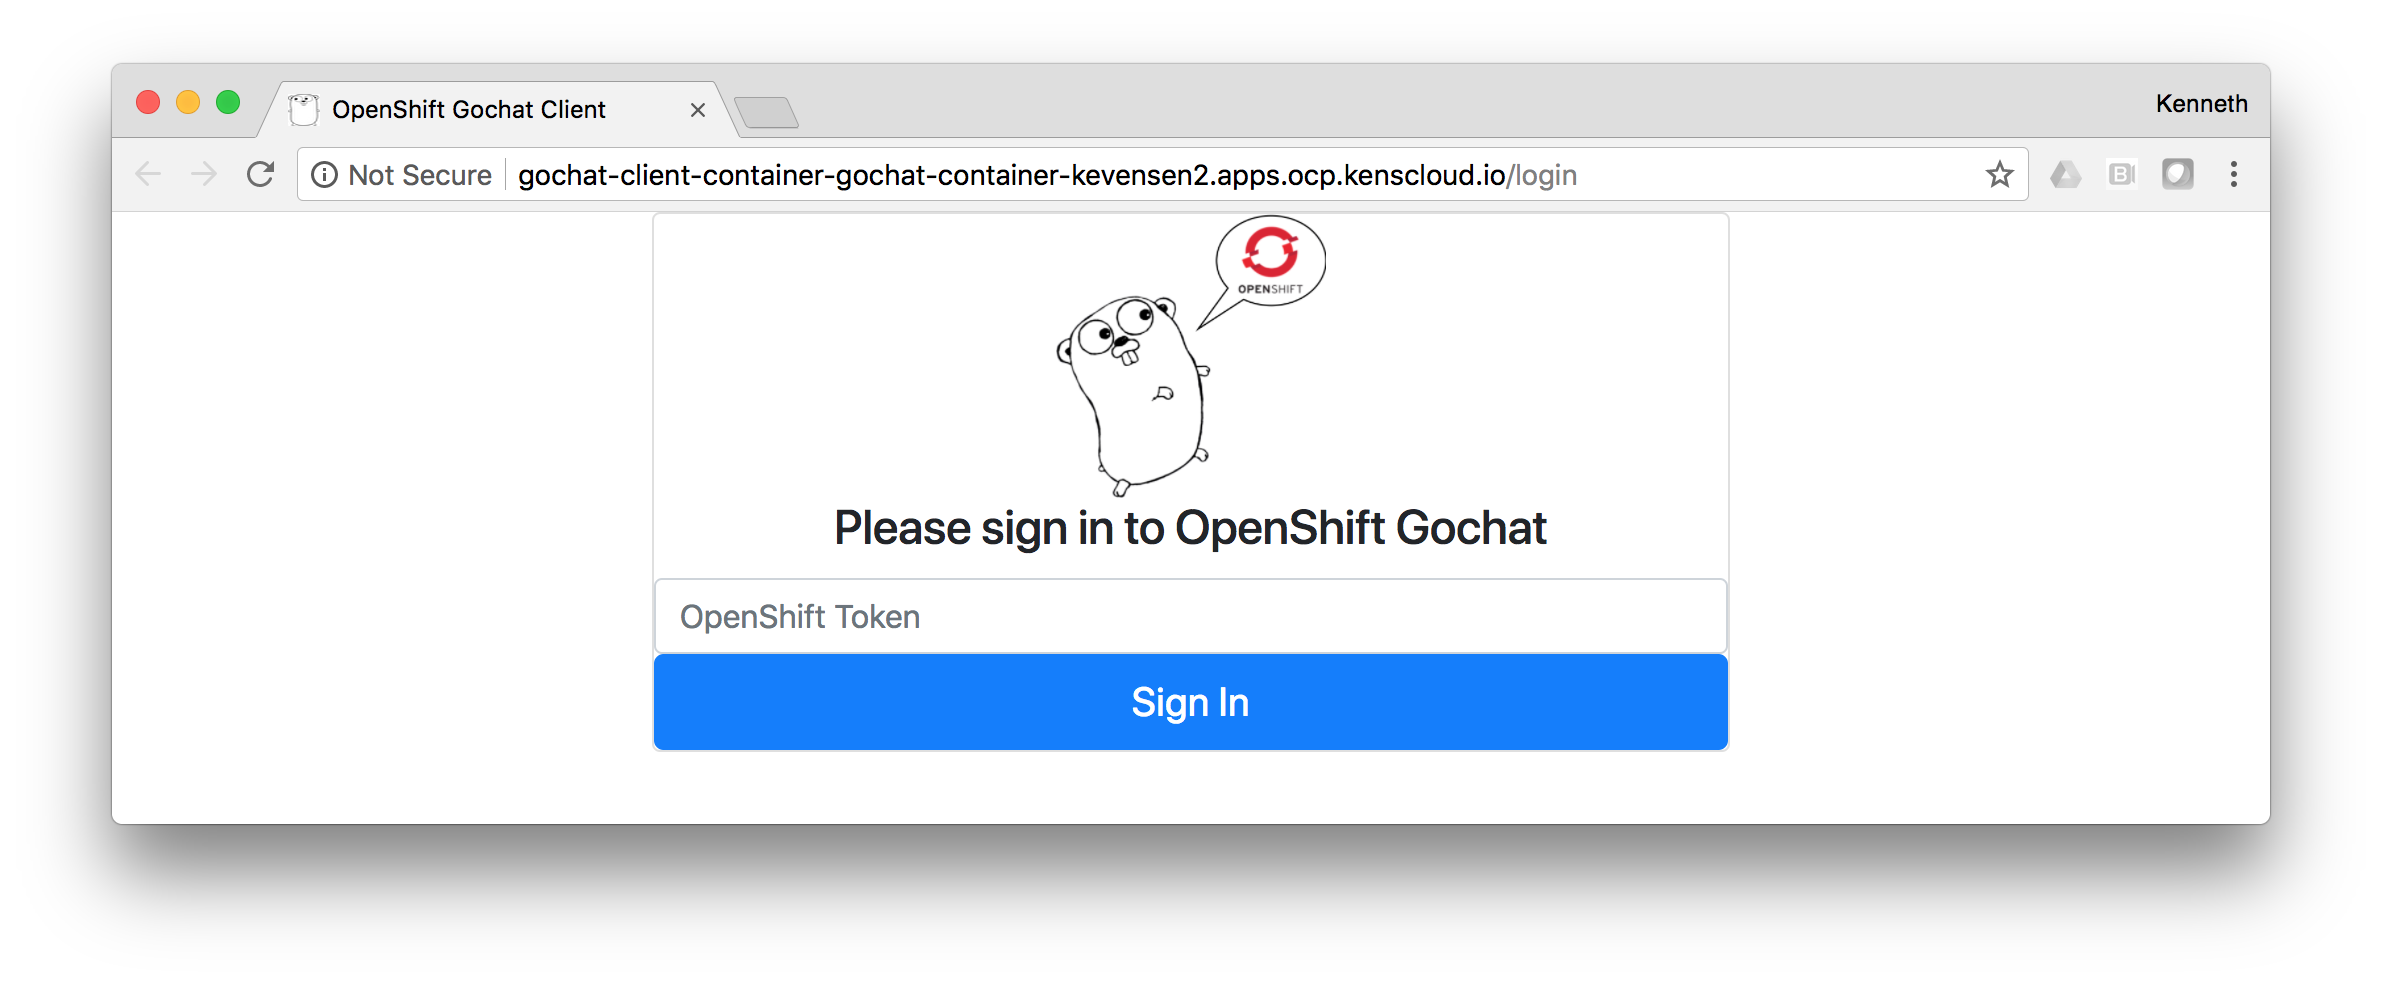
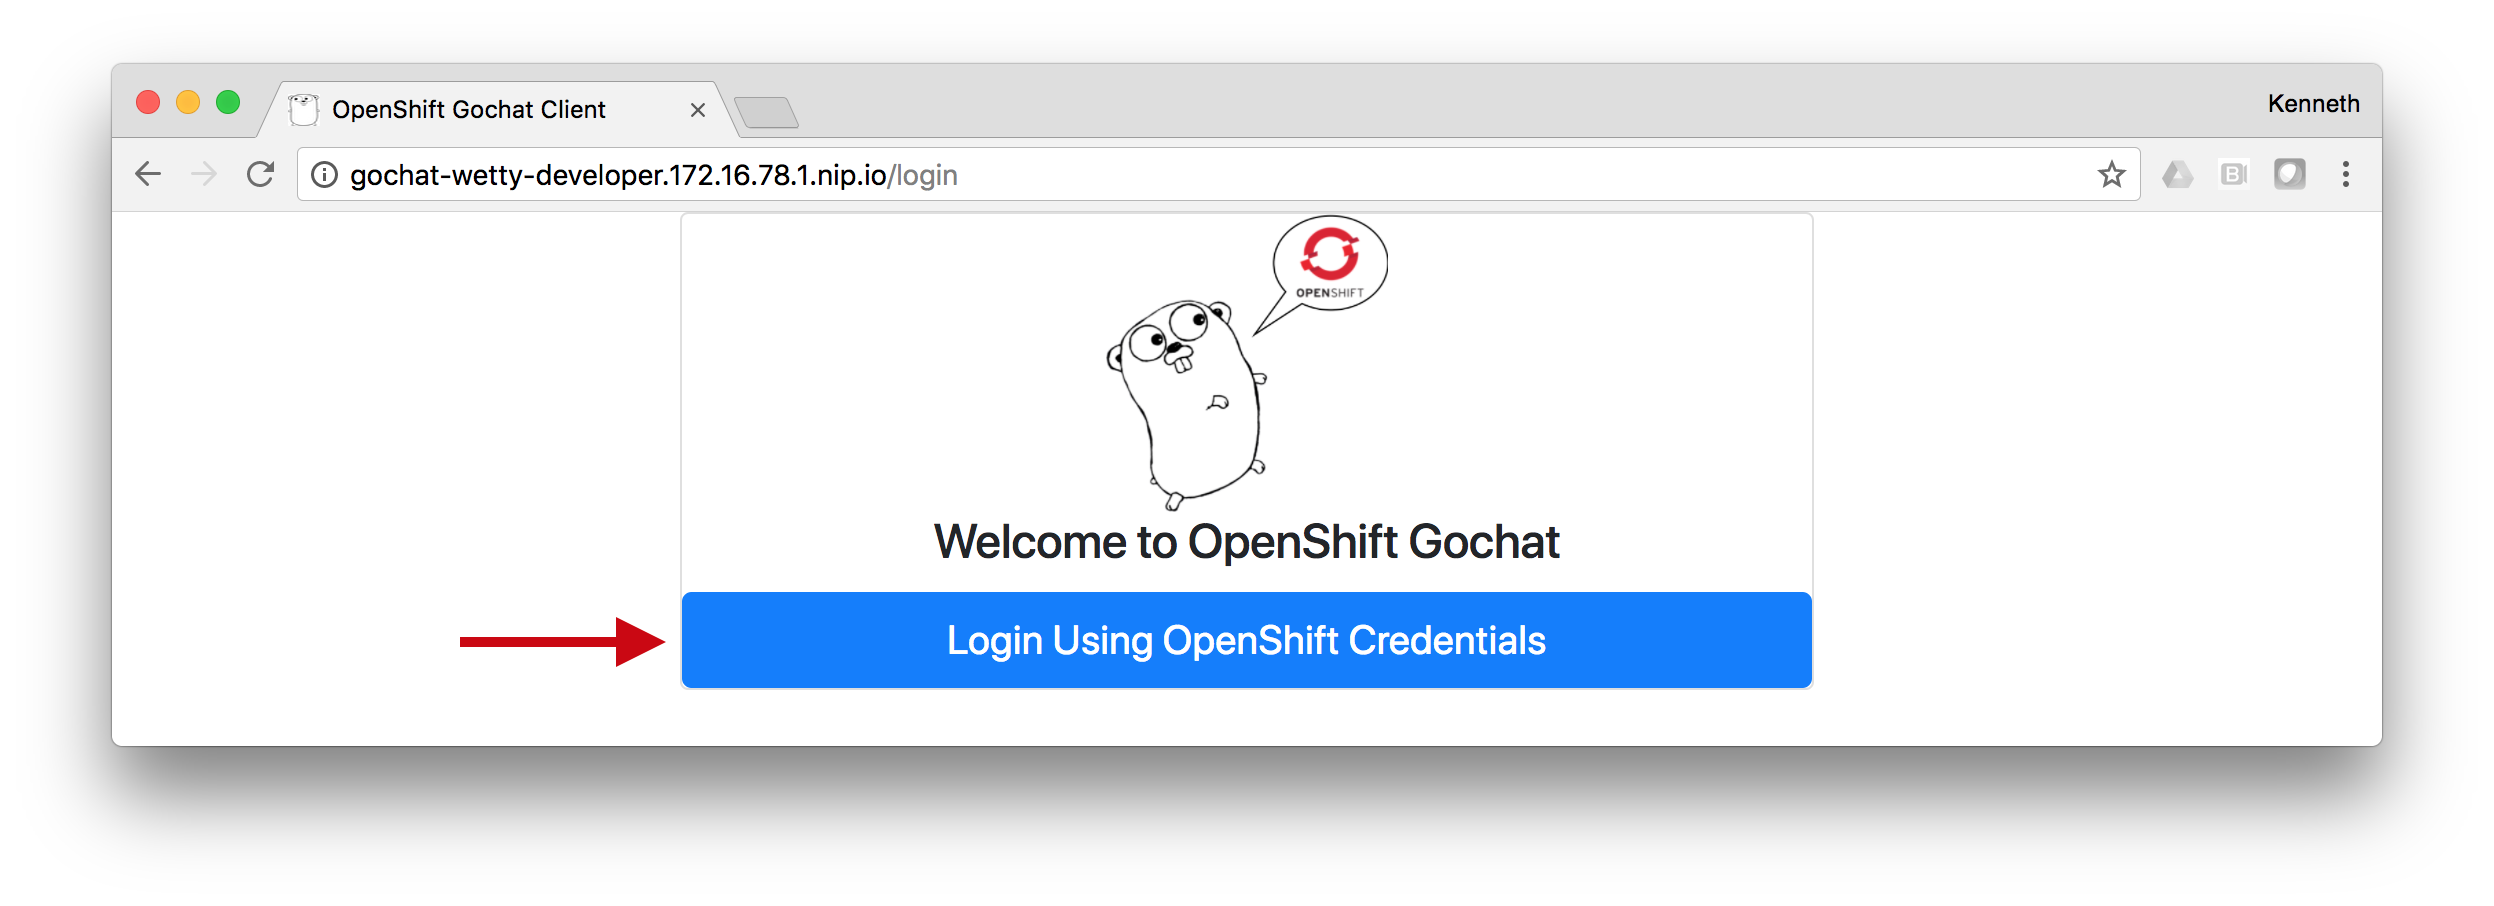
Updates to account for improved credentials and integrations with OpenShift.

diff --git a/content/workshops/source_to_image/source_to_image.md b/content/workshops/source_to_image/source_to_image.md
@@ -99,11 +99,28 @@ Copy the following into the editor.
 #
 # S2I assemble script for the 'golang-s2i' image.
 export GO_REPO=$(echo $OPENSHIFT_BUILD_SOURCE | sed --expression='s/\.git//g' | sed --expression='s/https:\/\///g')
+if [ -z "$GO_REPO" ]; then
+  export GO_REPO=$(grep ^package /opt/app-root/destination/src/glide.yaml | sed 's/package: //')
+fi
+
 mkdir -p $GOPATH/src/$GO_REPO
+
+# Copy the source
 cp -ar /opt/app-root/destination/src/* $GOPATH/src/$GO_REPO
-pushd $GOPATH/src/$GO_REPO
-glide install
-popd
+rm -rf /opt/app-root/destination/src/*
+
+# Restore build artifacts
+if [ "$(ls /opt/app-root/destination/artifacts/ 2>/dev/null)" ]; then
+    echo "Using artifacts from previous build."
+    mv /opt/app-root/destination/artifacts/vendor $GOPATH/src/$GO_REPO/vendor
+else
+    pushd $GOPATH/src/$GO_REPO
+    echo "Obtaining artifacts."
+    glide install -v
+    popd
+
+fi
+
 go build -o goexec $GO_REPO
 ```
 To exit vi:
@@ -139,8 +156,12 @@ Copy the following into the editor.
 ```terminal
 #!/bin/bash
 
-cd $GOPATH
-tar cf - pkg bin src
+export GO_REPO=$(echo $OPENSHIFT_BUILD_SOURCE | sed --expression='s/\.git//g' | sed --expression='s/https:\/\///g')
+if [ -z "$GO_REPO" ]; then
+  export GO_REPO=$(grep ^package /opt/app-root/destination/src/glide.yaml | sed 's/package: //')
+fi
+cd $GOPATH/src/$GO_REPO
+tar cf - vendor
 ```
 To exit vi:
 
@@ -168,6 +189,9 @@ shift+z
 ## Step 10 - Create the Golang S2I Builder Image
 Create a new build for the Golang S2I builder image
 ```terminal
+cd ~
+```
+```terminal
 oc new-build golang-s2i/ --to=golang-s2i
 ```
 Start the new build for the Golang S2I builder image
@@ -182,26 +206,37 @@ oc logs -f bc/golang-s2i
 
 ## Step 12 - Deploy the App from the S2I Builder Image
 ```terminal
-oc new-app https://github.com/kevensen/openshift-gochat-client.git --image-stream=golang-s2i --env ARGS="-host :8080 -chatServer gochat-server.gochat-server.svc.cluster.local:8080 -templatePath /opt/app-root/gopath/src/github.com/kevensen/openshift-gochat-client/templates -logtostderr"
+oc new-app https://github.com/kevensen/openshift-gochat-client.git --image-stream=golang-s2i --env ARGS="-host :8080 -chatServer gochat-server.gochat-server.svc.cluster.local:8080 -templatePath /opt/app-root/gopath/src/github.com/kevensen/openshift-gochat-client/templates -logtostderr -insecure"
 ```
 
 ## Step 13 - Expose the App
 ```terminal
 oc expose svc openshift-gochat-client
 ```
-
-## Step 14 - Obtain Your Token
+## Step 14 - Annotate the Service Account to Use OpenShift Authorization
+As in the previous lab, we must annotate the service account for the Gochat Client to communicate to the OpenShift API for user credential verification.
 ```terminal
-oc whoami -t
+oc annotate sa/default serviceaccounts.openshift.io/oauth-redirectreference.1='{"kind":"OAuthRedirectReference","apiVersion":"v1","reference":{"kind":"Route","name":"openshift-gochat-client"}}' --overwrite
+```
+```terminal
+oc annotate sa/default serviceaccounts.openshift.io/oauth-redirecturi.1=auth/callback/openshift --overwrite
 ```
 
 ## Step 15 - Sign in to the App
-Log in to the app with your OpenShift token.
-
+Click the blue "Login" button.
 {{< panel_group >}}
 {{% panel "Gochat Signin" %}}
 
-<img src="../images/gochat_signin.png" width="600" align="middle"/>
+<img src="../images/gochat_signin.png" width="800" align="middle"/>
+
+{{% /panel %}}
+{{< /panel_group >}}
+Log in to the app with your OpenShift credentials.  The workshop moderator will provide you with the URL, your username, and password.
+
+{{< panel_group >}}
+{{% panel "OpenShift WebUI Login" %}}
+
+<img src="../images/webui.png" width="1000" />
 
 {{% /panel %}}
 {{< /panel_group >}}
@@ -209,7 +244,7 @@ Log in to the app with your OpenShift token.
 ## Step 16 - Test the App
 Send a message!
 
-## Step 17- Logout
+## Step 17 - Logout
 {{< panel_group >}}
 {{% panel "Gochat Logout" %}}
 

diff --git a/content/workshops/source_to_image/run_the_app.md b/content/workshops/source_to_image/run_the_app.md
@@ -14,19 +14,33 @@ Then we expose the service with a route.
 ```terminal
 oc expose svc gochat
 ```
-## Step 2 - Download the App
+## Step 2 - Download the App Source
 ```terminal
-go get github.com/kevensen/openshift-gochat-client
+go get -d github.com/kevensen/openshift-gochat-client
 ```
-## Step 3 - Run the App
+## Step 3 - Build the App
 ```terminal
-openshift-gochat-client -host :8080 -chatServer gochat-server.gochat-server.svc.cluster.local:8080 -templatePath go/src/github.com/kevensen/openshift-gochat-client/templates -logtostderr
+cd go/src/github.com/kevensen/openshift-gochat-client
 ```
-## Step 5 - Get Your OpenShift Token
-You'll need this in step 5.
 ```terminal
-oc whoami -t
+glide install -v && go install
 ```
+## Step 4 - Annotate the Service Account to Use OpenShift Authorization
+These annotations allow for the Gochat Client to communicate to the OpenShift API for user credential verification.
+```terminal
+oc annotate sa/default serviceaccounts.openshift.io/oauth-redirectreference.1='{"kind":"OAuthRedirectReference","apiVersion":"v1","reference":{"kind":"Route","name":"gochat"}}' --overwrite
+```
+```terminal
+oc annotate sa/default serviceaccounts.openshift.io/oauth-redirecturi.1=auth/callback/openshift --overwrite
+```
+## Step 5 - Run the App
+```terminal
+cd ~
+```
+```terminal
+openshift-gochat-client -host :8080 -chatServer gochat-server.gochat-server.svc.cluster.local:8080 -templatePath go/src/github.com/kevensen/openshift-gochat-client/templates -logtostderr -insecure
+```
+
 ## Step 6 - Access the App
 Go back to the OpenShift WebUI and click on the "gochat" URL.
 
@@ -39,12 +53,20 @@ Go back to the OpenShift WebUI and click on the "gochat" URL.
 {{< /panel_group >}}
 
 ## Step 7 - Sign in to the App
-Log in to the app with your OpenShift token.
-
+Click the blue "Login" button.
 {{< panel_group >}}
 {{% panel "Gochat Signin" %}}
 
-<img src="../images/gochat_signin.png" width="600" align="middle"/>
+<img src="../images/gochat_signin.png" width="800" align="middle"/>
+
+{{% /panel %}}
+{{< /panel_group >}}
+Log in to the app with your OpenShift credentials.  The workshop moderator will provide you with the URL, your username, and password.
+
+{{< panel_group >}}
+{{% panel "OpenShift WebUI Login" %}}
+
+<img src="../images/webui.png" width="1000" />
 
 {{% /panel %}}
 {{< /panel_group >}}

diff --git a/content/workshops/source_to_image/gochat_s2i.md b/content/workshops/source_to_image/gochat_s2i.md
@@ -249,20 +249,33 @@ In the **Application Name** field, enter **gochat-client**
 
 In the **Application Command Line Arguments** field, enter the following:
 ```terminal
--host :8080 -chatServer gochat-server.gochat-server.svc.cluster.local:8080 -templatePath /opt/app-root/gopath/src/github.com/kevensen/openshift-gochat-client/templates -logtostderr
+-host :8080 -chatServer gochat-server.gochat-server.svc.cluster.local:8080 -templatePath /opt/app-root/gopath/src/github.com/kevensen/openshift-gochat-client/templates -logtostderr -insecure
 ```  
 Click **Create**
-## Step 10 - Obtain Your Token
+## Step 10 - Annotate the Service Account to Use OpenShift Authorization
+As in the previous lab, we must annotate the service account for the Gochat Client to communicate to the OpenShift API for user credential verification.
 ```terminal
-oc whoami -t
+oc annotate sa/default serviceaccounts.openshift.io/oauth-redirectreference.1='{"kind":"OAuthRedirectReference","apiVersion":"v1","reference":{"kind":"Route","name":"gochat-client"}}' --overwrite
 ```
-## Step 11 - Sign in to the App
-Log in to the app with your OpenShift token.
+```terminal
+oc annotate sa/default serviceaccounts.openshift.io/oauth-redirecturi.1=auth/callback/openshift --overwrite
+```
 
+## Step 11 - Sign in to the App
+Click the blue "Login" button.
 {{< panel_group >}}
 {{% panel "Gochat Signin" %}}
 
-<img src="../images/gochat_signin.png" width="600" align="middle"/>
+<img src="../images/gochat_signin.png" width="800" align="middle"/>
+
+{{% /panel %}}
+{{< /panel_group >}}
+Log in to the app with your OpenShift credentials.  The workshop moderator will provide you with the URL, your username, and password.
+
+{{< panel_group >}}
+{{% panel "OpenShift WebUI Login" %}}
+
+<img src="../images/webui.png" width="1000" />
 
 {{% /panel %}}
 {{< /panel_group >}}

diff --git a/content/workshops/source_to_image/containerize_app.md b/content/workshops/source_to_image/containerize_app.md
@@ -39,12 +39,14 @@ oc new-app gochat-client-container
 ```terminal
 oc expose svc gochat-client-container
 ```
-
-## Step 6 - Obtain Your Token
+## Step 6 - Annotate the Service Account to Use OpenShift Authorization
+As in the previous lab, we must annotate the service account for the Gochat Client to communicate to the OpenShift API for user credential verification.
 ```terminal
-oc whoami -t
+oc annotate sa/default serviceaccounts.openshift.io/oauth-redirectreference.1='{"kind":"OAuthRedirectReference","apiVersion":"v1","reference":{"kind":"Route","name":"gochat-client-container"}}' --overwrite
 ```
-
+```terminal
+oc annotate sa/default serviceaccounts.openshift.io/oauth-redirecturi.1=auth/callback/openshift --overwrite
+```
 ## Step 7 - Access the App
 Go back to the OpenShift WebUI and click on the "gochat" URL.
 
@@ -55,15 +57,21 @@ Go back to the OpenShift WebUI and click on the "gochat" URL.
 
 {{% /panel %}}
 {{< /panel_group >}}
-
-
 ## Step 8 - Sign in to the App
-Log in to the app with your OpenShift token.
-
+Click the blue "Login" button.
 {{< panel_group >}}
 {{% panel "Gochat Signin" %}}
 
-<img src="../images/gochat_signin.png" width="600" align="middle"/>
+<img src="../images/gochat_signin.png" width="800" align="middle"/>
+
+{{% /panel %}}
+{{< /panel_group >}}
+Log in to the app with your OpenShift credentials.  The workshop moderator will provide you with the URL, your username, and password.
+
+{{< panel_group >}}
+{{% panel "OpenShift WebUI Login" %}}
+
+<img src="../images/webui.png" width="1000" />
 
 {{% /panel %}}
 {{< /panel_group >}}

diff --git a/content/workshops/source_to_image/dice.md b/content/workshops/source_to_image/dice.md
@@ -109,43 +109,9 @@ oc start-build fortran-s2i --from-dir=fortran-s2i/
 ```
 ## Step 7 - Create the Fortran-Dice Container from Source
 ```terminal
-oc new-build https://github.com/kevensen/fortran-dice.git --image-stream=fortran-s2i --name=dice-user{{< span "userid" "YOUR#">}}
+oc new-build https://github.com/kevensen/fortran-dice.git --image-stream=fortran-s2i --name=dice --allow-missing-imagestream-tags
 ```
 ## Step 8 - Roll Some Dice
-In the chat window, try:
-
-**//roll**
-
-or
-
-**//roll-dice2-sides6**
-
-## Step 9 - Note Some Trouble
-
-{{< panel_group >}}
-{{% panel "Trouble..." %}}
-
-<img src="../images/dice_trouble.png" width="600" align="middle"/>
-
-{{% /panel %}}
-{{< /panel_group >}}
-
-## Step 10 - Understand Why
-Each project in OpenShift gets a **default** service account which is a non-person entity.  This service account performs actions in OpenShift on behalf of the user.  In this case, we want the SA to roll the dice (start a job) on our behalf but it doesn't have permission to do so.  We can fix it!
-{{< panel_group >}}
-{{% panel "Why?" %}}
-
-<img src="../images/dice_permissions.png" width="1000" align="middle"/>
-
-{{% /panel %}}
-{{< /panel_group >}}
-
-## Step 11 - Grant the Service Account Permission
-In Wetty...
-```terminal
-oc adm policy add-role-to-user edit system:serviceaccount:gochat-s2i-user1:default -n gochat-s2i-user1
-```
-## Step 12 - Roll Again
 In the chat window, try:
 
 **//roll**
